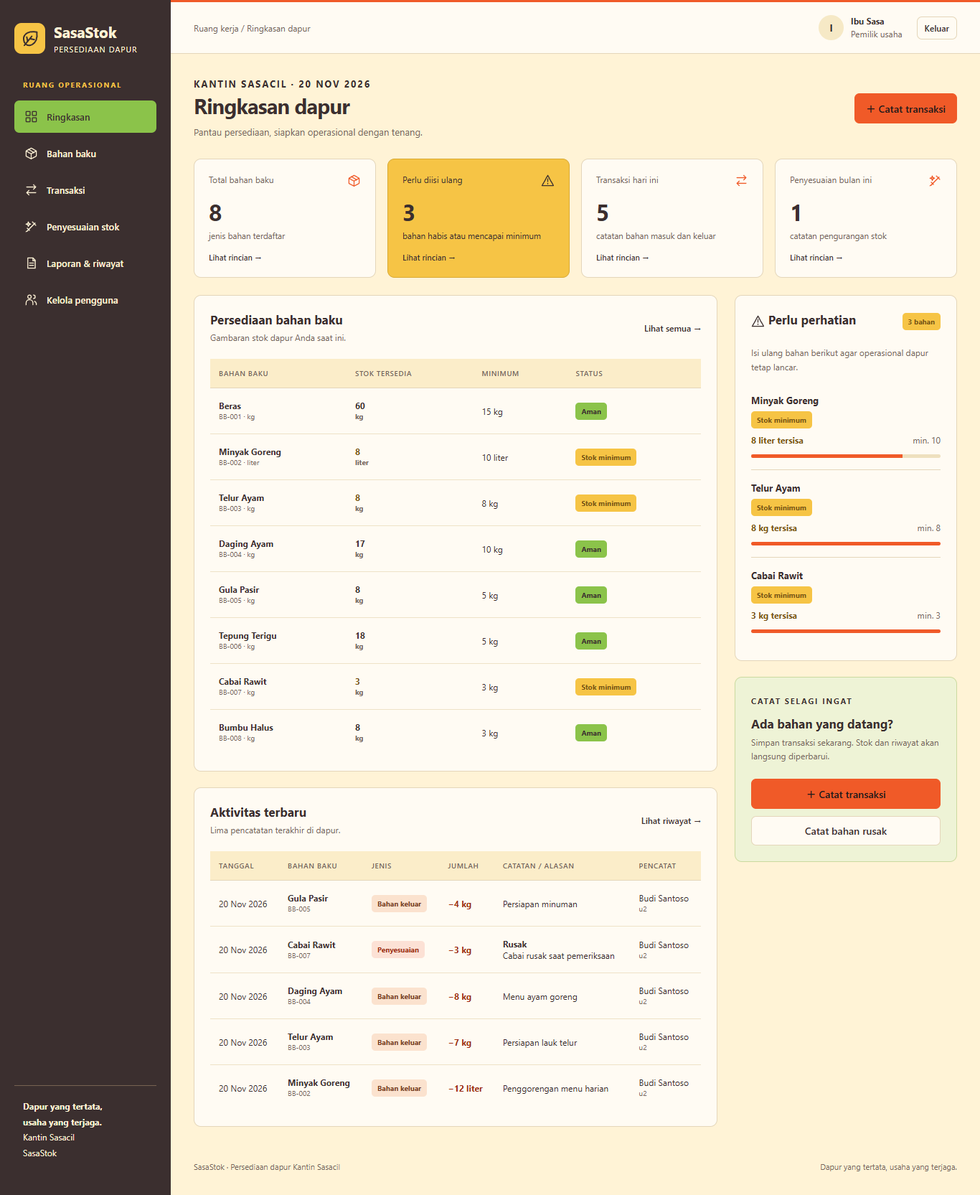
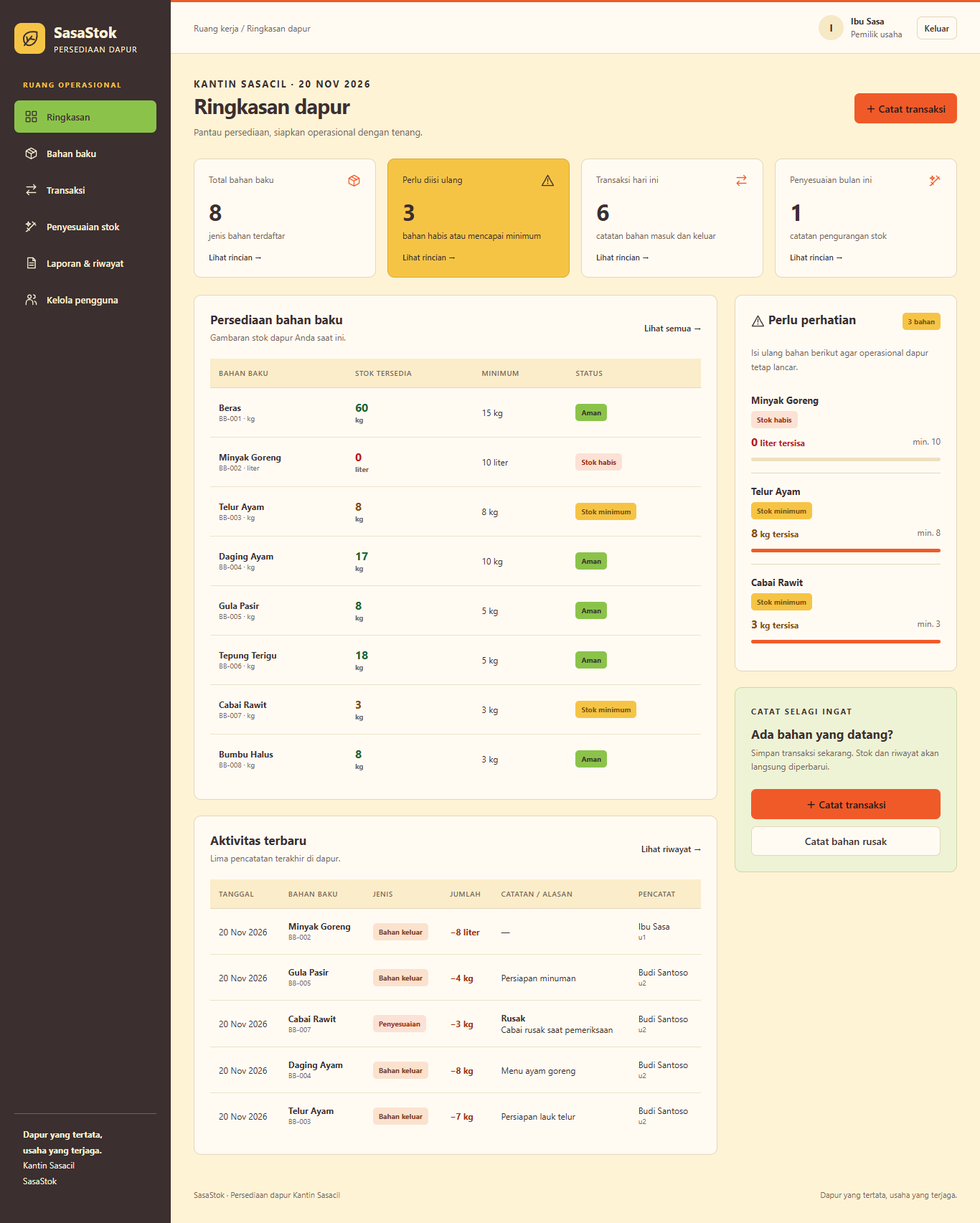
Update UI/UX

diff --git a/style.css b/style.css
@@ -1,4 +1,4 @@
-:root{--yellow:#F6C445;--orange:#F05A28;--lime:#8BC34A;--cream:#FFF3D6;--chocolate:#3B2F2F;--primary:var(--chocolate);--deep:var(--chocolate);--paper:var(--cream);--ink:var(--chocolate);--muted:#75665A;--line:#E4D6BA;--surface:#FFFBF3;--red:#9E2E13;--amber:#795414;--on-orange:#211A1A;font-family: 'Segoe UI',Arial,sans-serif;color:var(--ink);background:var(--paper);font-size:14px;color-scheme:light}*{box-sizing:border-box}body{margin:0}button,input,select,textarea{font:inherit}button,a,input,select,textarea{outline-offset:4px}button{cursor:pointer;border:1px solid var(--line);border-radius:7px;background:var(--surface);color:var(--ink);padding:10px 15px;font-weight:600}button:hover{background:#FCEAC0}button:disabled{opacity:.55;cursor:not-allowed}.primary{background:var(--orange);color:var(--on-orange);border-color:var(--orange)}.primary:hover{background:var(--yellow);color:var(--chocolate);border-color:var(--yellow)}.danger{color:var(--red)}a{color:var(--primary)}h1,h2,h3,p{margin-top:0}h1{font-size:29px;letter-spacing:-.8px;margin-bottom:8px}h2{font-size:17px;margin-bottom:6px}h3{font-size:15px}p{line-height:1.6}.muted,small{color:var(--muted)}small{line-height:1.5}.eyebrow{font-size:11px;letter-spacing:1.8px;font-weight:700;text-transform:uppercase;color:var(--primary)}.brand{display:flex;align-items:center;gap:12px;font-size:21px;font-weight:700}.brand small{display:block;font-size:11px;letter-spacing:1px;font-weight:400;margin-top:3px}.logo{background:var(--yellow);color:var(--deep);border-radius:10px;width:43px;height:43px;display:grid;place-items:center}.logo svg{width:28px;height:28px}svg{width:19px;height:19px;fill:none;stroke:currentColor;stroke-width:1.7;stroke-linecap:round;stroke-linejoin:round;vertical-align:middle}.shell{display:grid;grid-template-columns:238px minmax(0,1fr);min-height:100vh}.sidebar{background:var(--deep);color:var(--cream);padding:30px 20px;display:flex;flex-direction:column;gap:32px}.sidebar small{color:var(--cream)}.sidebar .eyebrow{color:var(--yellow);margin:0 12px 14px;font-size:10px}.sidebar nav{display:grid;gap:6px}.sidebar nav button{display:flex;align-items:center;gap:12px;width:100%;background:transparent;border:0;color:var(--cream);text-align:left;padding:13px 14px;font-size:13px}.sidebar nav button:hover{background:#5B4540}.sidebar nav button.active{background:var(--lime);color:var(--deep)}.side-bottom{margin-top:auto;padding:18px 12px;border-top:1px solid #776252;font-size:12px;line-height:1.8;color:var(--cream)}.main-wrap{min-width:0}.topbar{border-top:3px solid var(--orange);display:flex;justify-content:space-between;align-items:center;border-bottom:1px solid var(--line);padding:18px 32px;background:var(--surface);gap:12px}.topbar small{font-size:12px}.user{display:flex;align-items:center;gap:10px}.avatar{width:35px;height:35px;border-radius:50%;display:grid;place-items:center;background:#F6E9C6;color:var(--primary);font-weight:700}.user strong{display:block;font-size:12px}.user button{font-size:12px;padding:7px 10px;margin-left:10px}main{padding:32px;max-width:1550px;margin:auto}.page-head{display:flex;justify-content:space-between;align-items:center;gap:20px;margin-bottom:26px}.page-head p{margin-bottom:0;font-size:13px}.stats{display:grid;grid-template-columns:repeat(4,minmax(0,1fr));gap:16px;margin-bottom:24px}.stat,.panel{border:1px solid var(--line);border-radius:10px;background:var(--surface)}.stat{padding:20px}.stat-top{display:flex;justify-content:space-between;gap:10px;color:var(--muted);font-size:12px}.stat-top svg{color:var(--orange)}.stat strong{font-size:32px;display:block;margin:12px 0 4px;font-weight:650}.stat.alert{background:var(--yellow);border-color:#D9A934}.stat.alert strong,.stat.alert svg{color:var(--chocolate)}.grid{display:grid;grid-template-columns:minmax(0,1fr) 310px;gap:24px;align-items:start}.panel{padding:22px;min-width:0;margin-bottom:22px}.panel-head{display:flex;justify-content:space-between;align-items:center;gap:12px;margin-bottom:20px}.panel-head p{margin-bottom:0;font-size:12px}.panel-head h2{margin-bottom:5px}.text-button{border:0;padding:4px 0;background:transparent;color:var(--primary);font-size:12px}.table-wrap{overflow-x:auto}table{width:100%;border-collapse:collapse;white-space:nowrap;text-align:left;font-size:12px}th{color:var(--muted);font-size:10px;text-transform:uppercase;letter-spacing:.6px;font-weight:600;padding:13px 12px;border-bottom:1px solid var(--line);background:#FBEDC9}td{padding:16px 12px;border-bottom:1px solid #EEE2C7}tr:last-child td{border-bottom:0}td strong{font-size:12px}td small{display:block;font-size:10px}td.notes{white-space:normal;min-width:150px;max-width:250px}.badge{display:inline-block;border-radius:5px;padding:5px 8px;font-size:10px;font-weight:650;background:var(--lime);color:var(--chocolate)}.badge.warn{background:var(--yellow);color:var(--amber)}.badge.out{background:#FBE2CE;color:#793D21}.badge.adjustment{background:#FCE1D5;color:var(--red)}.badge.off{background:#EDE4D6;color:#67584E}.stock-value{font-weight:700}.stock-value.low{color:var(--amber)}.warn-item{padding:16px 0;border-bottom:1px solid var(--line)}.warn-item:last-child{border:0}.warn-item strong{display:block;font-size:13px;margin-bottom:7px}.warn-item .row{margin-top:8px;font-size:12px}.track{height:5px;background:#EEE0BE;border-radius:8px;margin-top:12px;overflow:hidden}.track span{display:block;height:100%;background:var(--orange)}.row{display:flex;justify-content:space-between;align-items:center;gap:12px}.quick{background:#EEF3D6;border-color:#CADA9F}.quick p{font-size:12px}.quick button{width:100%;margin-top:10px}.notice{padding:14px 16px;border-radius:7px;background:#FAE9C5;color:var(--chocolate);font-size:12px;line-height:1.7;margin-bottom:22px}.error{color:var(--red);font-size:13px;line-height:1.6}.filters{display:flex;flex-wrap:wrap;align-items:end;gap:12px;margin-bottom:22px}.filters label{min-width:150px;flex:1}.filters label.search{flex:2}.filters input,.filters select{margin:0}.form-grid{display:grid;grid-template-columns:1fr 1fr;gap:16px}.span2{grid-column:1/-1}label{display:block;color:var(--ink);font-size:12px;font-weight:600}input,select,textarea{display:block;width:100%;border:1px solid #CBBA9F;border-radius:6px;padding:11px 12px;background:var(--surface);color:var(--ink);margin-top:7px;min-width:0}input:disabled,select:disabled{background:#EFE4D0;color:var(--muted)}textarea{resize:vertical;min-height:85px}label small{display:block;font-weight:400;margin-top:6px}.actions{display:flex;justify-content:flex-end;gap:10px;margin-top:22px}.actions-cell button{border:0;background:transparent;padding:4px 7px;font-size:11px}.empty{text-align:center;color:var(--muted);padding:35px}.footer{font-size:11px;display:flex;justify-content:space-between;gap:16px;margin-top:26px;color:var(--muted)}dialog{border:1px solid var(--line);border-radius:12px;max-width:540px;width:calc(100% - 32px);padding:26px;color:var(--ink);max-height:90vh;overflow:auto}dialog::backdrop{background:#3B2F2F88;backdrop-filter:blur(2px)}dialog .panel-head{margin-bottom:22px}dialog .close{border:0;padding:5px 10px;font-size:20px}#toast{position:fixed;bottom:25px;right:25px;max-width:min(420px,calc(100% - 40px));z-index:10;background:var(--deep);color:var(--cream);padding:14px 20px;border-radius:8px;box-shadow:0 5px 24px #3B2F2F22;display:none}#toast.show{display:block}#toast.error{background:#8E2E16;color:var(--cream)}.login{min-height:100vh;display:grid;grid-template-columns:1fr 1fr}.login-story{border-top:8px solid var(--orange);background:var(--deep);color:var(--cream);padding:50px 12%;display:flex;flex-direction:column;justify-content:space-between;min-height:600px}.login-story h1{font-size:46px;line-height:1.2;max-width:440px}.login-story p{color:var(--cream);max-width:370px}.login-story .eyebrow{color:var(--yellow);margin-bottom:20px}.login-form{display:grid;place-items:center;padding:35px}.login-card{max-width:370px;width:100%}.login-card h2{font-size:27px;margin-top:10px}.login-card form label{margin-top:18px}.login-card form button{width:100%;margin:22px 0 10px}.login-help{border-top:1px solid var(--line);margin-top:24px;padding-top:20px;color:var(--muted);font-size:12px;line-height:1.8}.skip{position:fixed;top:-100px;left:10px;z-index:100;background:var(--surface);padding:12px}.skip:focus{top:10px}.boot{padding:40px}.amount{color:var(--primary);font-weight:700}.amount.negative{color:var(--red)}
+:root{--yellow:#F6C445;--orange:#F05A28;--lime:#8BC34A;--cream:#FFF3D6;--chocolate:#3B2F2F;--primary:var(--chocolate);--deep:var(--chocolate);--paper:var(--cream);--ink:var(--chocolate);--muted:#75665A;--line:#E4D6BA;--surface:#FFFBF3;--red:#9E2E13;--amber:#795414;--on-orange:#211A1A;font-family: 'Segoe UI',Arial,sans-serif;color:var(--ink);background:var(--paper);font-size:14px;color-scheme:light}*{box-sizing:border-box}body{margin:0}button,input,select,textarea{font:inherit}button,a,input,select,textarea{outline-offset:4px}button{cursor:pointer;border:1px solid var(--line);border-radius:7px;background:var(--surface);color:var(--ink);padding:10px 15px;font-weight:600}button:hover{background:#FCEAC0}button:disabled{opacity:.55;cursor:not-allowed}.primary{background:var(--orange);color:var(--on-orange);border-color:var(--orange)}.primary:hover{background:var(--yellow);color:var(--chocolate);border-color:var(--yellow)}.danger{color:var(--red)}a{color:var(--primary)}h1,h2,h3,p{margin-top:0}h1{font-size:29px;letter-spacing:-.8px;margin-bottom:8px}h2{font-size:17px;margin-bottom:6px}h3{font-size:15px}p{line-height:1.6}.muted,small{color:var(--muted)}small{line-height:1.5}.eyebrow{font-size:11px;letter-spacing:1.8px;font-weight:700;text-transform:uppercase;color:var(--primary)}.brand{display:flex;align-items:center;gap:12px;font-size:21px;font-weight:700}.brand small{display:block;font-size:11px;letter-spacing:1px;font-weight:400;margin-top:3px}.logo{background:var(--yellow);color:var(--deep);border-radius:10px;width:43px;height:43px;display:grid;place-items:center}.logo svg{width:28px;height:28px}svg{width:19px;height:19px;fill:none;stroke:currentColor;stroke-width:1.7;stroke-linecap:round;stroke-linejoin:round;vertical-align:middle}.shell{display:grid;grid-template-columns:238px minmax(0,1fr);min-height:100vh}.sidebar{background:var(--deep);color:var(--cream);padding:30px 20px;display:flex;flex-direction:column;gap:32px}.sidebar small{color:var(--cream)}.sidebar .eyebrow{color:var(--yellow);margin:0 12px 14px;font-size:10px}.sidebar nav{display:grid;gap:6px}.sidebar nav button{display:flex;align-items:center;gap:12px;width:100%;background:transparent;border:0;color:var(--cream);text-align:left;padding:13px 14px;font-size:13px}.sidebar nav button:hover{background:#5B4540}.sidebar nav button.active{background:var(--lime);color:var(--deep)}.side-bottom{margin-top:auto;padding:18px 12px;border-top:1px solid #776252;font-size:12px;line-height:1.8;color:var(--cream)}.main-wrap{min-width:0}.topbar{border-top:3px solid var(--orange);display:flex;justify-content:space-between;align-items:center;border-bottom:1px solid var(--line);padding:18px 32px;background:var(--surface);gap:12px}.topbar small{font-size:12px}.user{display:flex;align-items:center;gap:10px}.avatar{width:35px;height:35px;border-radius:50%;display:grid;place-items:center;background:#F6E9C6;color:var(--primary);font-weight:700}.user strong{display:block;font-size:12px}.user button{font-size:12px;padding:7px 10px;margin-left:10px}main{padding:32px;max-width:1550px;margin:auto}.page-head{display:flex;justify-content:space-between;align-items:center;gap:20px;margin-bottom:26px}.page-head p{margin-bottom:0;font-size:13px}.stats{display:grid;grid-template-columns:repeat(4,minmax(0,1fr));gap:16px;margin-bottom:24px}.stat,.panel{border:1px solid var(--line);border-radius:10px;background:var(--surface)}.stat{padding:20px}.stat-top{display:flex;justify-content:space-between;gap:10px;color:var(--muted);font-size:12px}.stat-top svg{color:var(--orange)}.stat strong{font-size:32px;display:block;margin:12px 0 4px;font-weight:650}.stat.alert{background:var(--yellow);border-color:#D9A934}.stat.alert strong,.stat.alert svg{color:var(--chocolate)}.grid{display:grid;grid-template-columns:minmax(0,1fr) 310px;gap:24px;align-items:start}.panel{padding:22px;min-width:0;margin-bottom:22px}.panel-head{display:flex;justify-content:space-between;align-items:center;gap:12px;margin-bottom:20px}.panel-head p{margin-bottom:0;font-size:12px}.panel-head h2{margin-bottom:5px}.text-button{border:0;padding:4px 0;background:transparent;color:var(--primary);font-size:12px}.table-wrap{overflow-x:auto}table{width:100%;border-collapse:collapse;white-space:nowrap;text-align:left;font-size:12px}th{color:var(--muted);font-size:10px;text-transform:uppercase;letter-spacing:.6px;font-weight:600;padding:13px 12px;border-bottom:1px solid var(--line);background:#FBEDC9}td{padding:16px 12px;border-bottom:1px solid #EEE2C7}tr:last-child td{border-bottom:0}td strong{font-size:12px}td small{display:block;font-size:10px}td.notes{white-space:normal;min-width:150px;max-width:250px}.badge{display:inline-block;border-radius:5px;padding:5px 8px;font-size:10px;font-weight:650;background:var(--lime);color:var(--chocolate)}.badge.warn{background:var(--yellow);color:var(--amber)}.badge.out{background:#FBE2CE;color:#793D21}.badge.adjustment{background:#FCE1D5;color:var(--red)}.badge.off{background:#EDE4D6;color:#67584E}.stock-value{font-weight:700;font-variant-numeric:tabular-nums}.stock-value.stock-safe{color:#166534}.stock-value.stock-low{color:#854D0E}.stock-value.stock-empty{color:#B91C1C}.stock-number{font-size:16px;font-weight:750}.warn-item{padding:16px 0;border-bottom:1px solid var(--line)}.warn-item:last-child{border:0}.warn-item strong{display:block;font-size:13px;margin-bottom:7px}.warn-item .row{margin-top:8px;font-size:12px}.track{height:5px;background:#EEE0BE;border-radius:8px;margin-top:12px;overflow:hidden}.track span{display:block;height:100%;background:var(--orange)}.row{display:flex;justify-content:space-between;align-items:center;gap:12px}.quick{background:#EEF3D6;border-color:#CADA9F}.quick p{font-size:12px}.quick button{width:100%;margin-top:10px}.notice{padding:14px 16px;border-radius:7px;background:#FAE9C5;color:var(--chocolate);font-size:12px;line-height:1.7;margin-bottom:22px}.error{color:var(--red);font-size:13px;line-height:1.6}.filters{display:flex;flex-wrap:wrap;align-items:end;gap:12px;margin-bottom:22px}.filters label{min-width:150px;flex:1}.filters label.search{flex:2}.filters input,.filters select{margin:0}.form-grid{display:grid;grid-template-columns:1fr 1fr;gap:16px}.span2{grid-column:1/-1}label{display:block;color:var(--ink);font-size:12px;font-weight:600}input,select,textarea{display:block;width:100%;border:1px solid #CBBA9F;border-radius:6px;padding:11px 12px;background:var(--surface);color:var(--ink);margin-top:7px;min-width:0}input:disabled,select:disabled{background:#EFE4D0;color:var(--muted)}textarea{resize:vertical;min-height:85px}label small{display:block;font-weight:400;margin-top:6px}.actions{display:flex;justify-content:flex-end;gap:10px;margin-top:22px}.actions-cell button{border:0;background:transparent;padding:4px 7px;font-size:11px}.empty{text-align:center;color:var(--muted);padding:35px}.footer{font-size:11px;display:flex;justify-content:space-between;gap:16px;margin-top:26px;color:var(--muted)}dialog{border:1px solid var(--line);border-radius:12px;max-width:540px;width:calc(100% - 32px);padding:26px;color:var(--ink);max-height:90vh;overflow:auto}dialog::backdrop{background:#3B2F2F88;backdrop-filter:blur(2px)}dialog .panel-head{margin-bottom:22px}dialog .close{border:0;padding:5px 10px;font-size:20px}#toast{position:fixed;bottom:25px;right:25px;max-width:min(420px,calc(100% - 40px));z-index:10;background:var(--deep);color:var(--cream);padding:14px 20px;border-radius:8px;box-shadow:0 5px 24px #3B2F2F22;display:none}#toast.show{display:block}#toast.error{background:#8E2E16;color:var(--cream)}.login{min-height:100vh;display:grid;grid-template-columns:1fr 1fr}.login-story{border-top:8px solid var(--orange);background:var(--deep);color:var(--cream);padding:50px 12%;display:flex;flex-direction:column;justify-content:space-between;min-height:600px}.login-story h1{font-size:46px;line-height:1.2;max-width:440px}.login-story p{color:var(--cream);max-width:370px}.login-story .eyebrow{color:var(--yellow);margin-bottom:20px}.login-form{display:grid;place-items:center;padding:35px}.login-card{max-width:370px;width:100%}.login-card h2{font-size:27px;margin-top:10px}.login-card form label{margin-top:18px}.login-card form button{width:100%;margin:22px 0 10px}.login-help{border-top:1px solid var(--line);margin-top:24px;padding-top:20px;color:var(--muted);font-size:12px;line-height:1.8}.skip{position:fixed;top:-100px;left:10px;z-index:100;background:var(--surface);padding:12px}.skip:focus{top:10px}.boot{padding:40px}.amount{color:var(--primary);font-weight:700}.amount.negative{color:var(--red)}
 @media(min-width:1500px){main{padding:40px}.grid{grid-template-columns:minmax(0,1fr) 330px}}
 @media(max-width:1150px){.shell{grid-template-columns:210px minmax(0,1fr)}.sidebar{padding:25px 13px}.grid{grid-template-columns:minmax(0,1fr)}.aside{display:grid;grid-template-columns:1fr 1fr;gap:20px}.stats{gap:10px}.stat{padding:16px}.topbar,main{padding:24px}.stat-top{font-size:11px}}
 @media(max-width:760px){.shell{display:block}.sidebar{padding:18px 16px;gap:20px}.sidebar nav{display:flex;overflow-x:auto;gap:5px}.sidebar nav button{width:auto;white-space:nowrap;padding:11px;font-size:12px}.sidebar nav button svg{display:none}.sidebar .eyebrow,.side-bottom{display:none}.sidebar .brand{font-size:18px}.topbar{padding:14px 18px}.topbar>small{display:none}.user{width:100%}.user button{margin-left:auto}main{padding:24px 16px}.page-head{align-items:flex-start;flex-direction:column;gap:14px}h1{font-size:26px}.stats{grid-template-columns:repeat(2,minmax(0,1fr));gap:10px}.stat strong{font-size:28px}.stat small{font-size:10px}.aside{display:block}.panel{padding:17px}.footer{flex-direction:column}.login{display:block}.login-story{min-height:0;padding:25px}.login-story>div:not(.brand),.login-story>small{display:none}.login-form{padding:32px 24px}.form-grid{grid-template-columns:1fr}.span2{grid-column:auto}.filters{align-items:stretch}.filters label{min-width:120px}input,select,textarea{font-size:16px}.panel-head{align-items:flex-start}.panel-head button{white-space:nowrap}.notice{font-size:11px}}

diff --git a/app.js b/app.js
@@ -29,13 +29,13 @@
     app.innerHTML=`<div class="login"><section class="login-story">${brand()}<div><p class="eyebrow">Persediaan dapur Kantin Sasacil</p><h1>Dapur yang tertata,<br>Usaha yang terjaga.</h1><p>Kelola bahan baku, pantau persediaan, dan catat kebutuhan dapur dalam satu tempat.</p></div><small>SasaStok · Manajemen bahan baku</small></section><main id="main" class="login-form"><div class="login-card"><span class="eyebrow">Selamat datang kembali</span><h2>Masuk ke SasaStok</h2><p class="muted">Gunakan akun Anda untuk mengakses persediaan dapur.</p><form id="login-form"><label>Email<input name="email" type="email" autocomplete="username" placeholder="nama@sasacil.id" required></label><label>Kata sandi<input name="password" type="password" autocomplete="current-password" required></label><p id="login-error" class="error" role="alert"></p><button class="primary" type="submit">Masuk ke aplikasi →</button></form><p class="login-help">Belum memiliki akun atau mengalami kendala masuk? Hubungi pemilik atau pengelola Kantin Sasacil.</p></div></main></div>`;
   }
   function table(headers,rows,empty='Belum ada data untuk ditampilkan.') {return `<div class="table-wrap"><table><thead><tr>${headers.map(x=>`<th scope="col">${x}</th>`).join('')}</tr></thead><tbody>${rows.join('')||`<tr><td colspan="${headers.length}" class="empty">${empty}</td></tr>`}</tbody></table></div>`;}
-  function stockTable(rows,edit=false){return table(['Bahan baku','Stok tersedia','Minimum','Status',...(edit?['Tindakan']:[])],rows.map(m=>`<tr><td><strong>${esc(m.name)}</strong><small>${esc(m.code)} · ${esc(m.unit)}</small></td><td class="stock-value ${M.balance(state,m.id)<=m.minimum?'low':''}">${num(M.balance(state,m.id))} <small>${esc(m.unit)}</small></td><td>${num(m.minimum)} ${esc(m.unit)}</td><td>${badge(m)}</td>${edit?`<td class="actions-cell"><button data-action="edit-material" data-id="${m.id}" aria-label="Ubah ${esc(m.name)}">Ubah</button><button class="danger" data-action="delete-material" data-id="${m.id}" aria-label="Hapus ${esc(m.name)}">Hapus</button></td>`:''}</tr>`));}
+  function stockTable(rows,edit=false){return table(['Bahan baku','Stok tersedia','Minimum','Status',...(edit?['Tindakan']:[])],rows.map(m=>`<tr><td><strong>${esc(m.name)}</strong><small>${esc(m.code)} · ${esc(m.unit)}</small></td><td class="stock-value stock-${stockStatus(m)}"><span class="stock-number">${num(M.balance(state,m.id))}</span> <small>${esc(m.unit)}</small></td><td>${num(m.minimum)} ${esc(m.unit)}</td><td>${badge(m)}</td>${edit?`<td class="actions-cell"><button data-action="edit-material" data-id="${m.id}" aria-label="Ubah ${esc(m.name)}">Ubah</button><button class="danger" data-action="delete-material" data-id="${m.id}" aria-label="Hapus ${esc(m.name)}">Hapus</button></td>`:''}</tr>`));}
   const typeName=t=>({masuk:'Bahan masuk',keluar:'Bahan keluar',adjustment:'Penyesuaian',movement:'Bahan masuk dan keluar'}[t]);
   function txTable(rows){return table(['Tanggal','Bahan baku','Jenis','Jumlah','Catatan / alasan','Pencatat'],rows.map(t=>{const m=state.materials.find(m=>m.id===t.materialId);return `<tr><td>${date(t.date)}</td><td><strong>${esc(m?.name)}</strong><small>${esc(m?.code)}</small></td><td><span class="badge ${t.type==='keluar'?'out':t.type==='adjustment'?'adjustment':''}">${typeName(t.type)}</span></td><td class="amount ${t.type!=='masuk'?'negative':''}">${t.type==='masuk'?'+':'−'}${num(t.quantity)} ${esc(m?.unit)}</td><td class="notes">${t.reason?`<b>${esc(t.reason)}</b><br>`:''}${esc(t.notes||'—')}</td><td>${esc(t.userName)}<small>${esc(t.userId)}</small></td></tr>`;}));}
   function dashboard(){
     const low=state.materials.filter(m=>M.balance(state,m.id)<=m.minimum),today=M.filter(state,{start:M.today(),end:M.today()}),adjust=state.transactions.filter(t=>t.type==='adjustment'&&t.date.slice(0,7)===M.today().slice(0,7));
     const stats=[['Total bahan baku',state.materials.length,'jenis bahan terdaftar','materials','materials',''],['Perlu diisi ulang',low.length,'bahan habis atau mencapai minimum','warn','materials','restock'],['Transaksi hari ini',today.filter(t=>t.type!=='adjustment').length,'catatan bahan masuk dan keluar','transactions','reports','today'],['Penyesuaian bulan ini',adjust.length,'catatan pengurangan stok','adjustment','reports','month-adjustments']];
-    return `<div class="stats">${stats.map(([label,value,sub,i,target,view],n)=>`<button type="button" class="stat ${n===1?'alert':''}" data-page="${target}" data-view="${view}"><span class="stat-top">${label}${icon(i)}</span><strong>${value}</strong><small>${sub}</small><span class="stat-link">Lihat rincian →</span></button>`).join('')}</div><div class="grid"><div><section class="panel"><div class="panel-head"><div><h2>Persediaan bahan baku</h2><p class="muted">Gambaran stok dapur Anda saat ini.</p></div><button class="text-button" data-page="materials">Lihat semua →</button></div>${stockTable(state.materials)}</section><section class="panel"><div class="panel-head"><div><h2>Aktivitas terbaru</h2><p class="muted">Lima pencatatan terakhir di dapur.</p></div><button class="text-button" data-page="reports">Lihat riwayat →</button></div>${txTable(M.filter(state).slice(0,5))}</section></div><div class="aside"><section class="panel"><div class="panel-head"><h2>${icon('warn')} Perlu perhatian</h2><span class="badge warn">${low.length} bahan</span></div><p class="muted" style="font-size:12px">Isi ulang bahan berikut agar operasional dapur tetap lancar.</p>${low.map(m=>`<div class="warn-item"><strong>${esc(m.name)}</strong>${badge(m)}<div class="row"><span class="stock-value low">${num(M.balance(state,m.id))} ${esc(m.unit)} tersisa</span><span class="muted">min. ${num(m.minimum)}</span></div><div class="track"><span style="width:${m.minimum?Math.min(100,M.balance(state,m.id)/m.minimum*100):0}%"></span></div></div>`).join('')||'<p class="empty">Semua stok aman.</p>'}</section><section class="panel quick"><span class="eyebrow">Catat selagi ingat</span><h2 style="margin-top:12px">Ada bahan yang datang?</h2><p class="muted">Simpan transaksi sekarang. Stok dan riwayat akan langsung diperbarui.</p><button class="primary" data-page="transactions">＋ Catat transaksi</button><button data-page="adjustment">Catat bahan rusak</button></section></div></div>`;
+    return `<div class="stats">${stats.map(([label,value,sub,i,target,view],n)=>`<button type="button" class="stat ${n===1?'alert':''}" data-page="${target}" data-view="${view}"><span class="stat-top">${label}${icon(i)}</span><strong>${value}</strong><small>${sub}</small><span class="stat-link">Lihat rincian →</span></button>`).join('')}</div><div class="grid"><div><section class="panel"><div class="panel-head"><div><h2>Persediaan bahan baku</h2><p class="muted">Gambaran stok dapur Anda saat ini.</p></div><button class="text-button" data-page="materials">Lihat semua →</button></div>${stockTable(state.materials)}</section><section class="panel"><div class="panel-head"><div><h2>Aktivitas terbaru</h2><p class="muted">Lima pencatatan terakhir di dapur.</p></div><button class="text-button" data-page="reports">Lihat riwayat →</button></div>${txTable(M.filter(state).slice(0,5))}</section></div><div class="aside"><section class="panel"><div class="panel-head"><h2>${icon('warn')} Perlu perhatian</h2><span class="badge warn">${low.length} bahan</span></div><p class="muted" style="font-size:12px">Isi ulang bahan berikut agar operasional dapur tetap lancar.</p>${low.map(m=>`<div class="warn-item"><strong>${esc(m.name)}</strong>${badge(m)}<div class="row"><span class="stock-value stock-${stockStatus(m)}"><span class="stock-number">${num(M.balance(state,m.id))}</span> ${esc(m.unit)} tersisa</span><span class="muted">min. ${num(m.minimum)}</span></div><div class="track"><span style="width:${m.minimum?Math.min(100,M.balance(state,m.id)/m.minimum*100):0}%"></span></div></div>`).join('')||'<p class="empty">Semua stok aman.</p>'}</section><section class="panel quick"><span class="eyebrow">Catat selagi ingat</span><h2 style="margin-top:12px">Ada bahan yang datang?</h2><p class="muted">Simpan transaksi sekarang. Stok dan riwayat akan langsung diperbarui.</p><button class="primary" data-page="transactions">＋ Catat transaksi</button><button data-page="adjustment">Catat bahan rusak</button></section></div></div>`;
   }
   function materials(){const q=filters.q||'',status=filters.status||'';const rows=state.materials.filter(m=>(m.name+' '+m.code).toLowerCase().includes(q.toLowerCase())&&(!status||(status==='attention'?M.balance(state,m.id)<=m.minimum:stockStatus(m)===status)));return `<section class="panel"><form id="material-filter" class="filters"><label class="search">Cari bahan<input name="q" type="search" placeholder="Nama atau kode bahan…" value="${esc(q)}"></label><label>Status stok<select name="status"><option value="">Semua status</option><option value="attention" ${status==='attention'?'selected':''}>Perlu diisi ulang</option><option value="empty" ${status==='empty'?'selected':''}>Stok habis</option><option value="low" ${status==='low'?'selected':''}>Stok minimum</option><option value="safe" ${status==='safe'?'selected':''}>Aman</option></select></label><button type="submit">Terapkan</button></form>${stockTable(rows,owner())}</section>`;}
   function materialOptions(selected=''){return '<option value="">Pilih bahan baku</option>'+state.materials.map(m=>`<option value="${m.id}" ${selected===m.id?'selected':''}>${esc(m.code+' · '+m.name)} — ${num(M.balance(state,m.id))} ${esc(m.unit)}</option>`).join('');}
@@ -51,7 +51,7 @@
     app.innerHTML=`<div class="shell"><aside class="sidebar">${brand()}<div><p class="eyebrow">Ruang operasional</p><nav aria-label="Menu utama">${nav.filter(([k])=>k!=='users'||owner()).map(([k,label])=>`<button data-page="${k}" class="${k===page?'active':''}" ${k===page?'aria-current="page"':''}>${icon(k)}${label}</button>`).join('')}</nav></div><div class="side-bottom"><b>Dapur yang tertata,<br>usaha yang terjaga.</b><br>Kantin Sasacil<br>SasaStok</div></aside><div class="main-wrap"><header class="topbar"><small>Ruang kerja <span class="muted">/ ${title}</span></small><div class="user"><span class="avatar">${esc(user().name[0])}</span><div><strong>${esc(user().name)}</strong><small>${role(user().role)}</small></div><button data-action="logout">Keluar</button></div></header><main id="main" tabindex="-1"><div class="page-head"><div><p class="eyebrow">KANTIN SASACIL · ${date(M.today())}</p><h1>${title}</h1><p class="muted">${sub}</p></div>${page==='dashboard'?'<button class="primary" data-page="transactions">＋ Catat transaksi</button>':page==='materials'&&owner()?'<button class="primary" data-action="add-material">＋ Tambah bahan</button>':page==='users'?'<button class="primary" data-action="add-user">＋ Tambah pengguna</button>':''}</div>${({dashboard,materials,transactions:()=>txForm(),adjustment:()=>txForm(true),reports:report,users}[page])()}<footer class="footer"><span>SasaStok · Persediaan dapur Kantin Sasacil</span><span>Dapur yang tertata, usaha yang terjaga.</span></footer></main></div></div>`;
   }
   function modal(title,body){dialog.innerHTML=`<div class="panel-head"><h2 id="dialog-title">${title}</h2><button class="close" data-action="close" aria-label="Tutup dialog">×</button></div>${body}`;dialog.showModal();}
-  function materialModal(mid){M.actor(state,uid,true);const m=state.materials.find(m=>m.id===mid),locked=m&&state.transactions.some(t=>t.materialId===mid);modal(m?'Ubah bahan baku':'Tambah bahan baku',`<form id="material-form" class="form-grid"><input type="hidden" name="id" value="${m?.id||''}"><label>Kode bahan<input name="code" readonly maxlength="50" value="${esc(m?.code||M.nextMaterialCode(state))}"><small>${m?'Kode bahan tetap untuk menjaga identitas bahan.':'Dibuat otomatis saat bahan disimpan.'}</small></label><label>Satuan dasar<select name="unit" ${locked?'disabled':''}>${['kg','liter','pcs','gram'].map(u=>`<option ${u===m?.unit?'selected':''}>${u}</option>`).join('')}</select></label><label class="span2">Nama bahan<input name="name" required maxlength="255" value="${esc(m?.name||'')}"></label><label>Persediaan awal<input name="initial" type="number" min="0" step="0.01" required value="${m?decimal(m.initial):'0'}" ${locked?'disabled':''}></label><label>Batas stok minimum<input name="minimum" type="number" min="0" step="0.01" required value="${m?decimal(m.minimum):'0'}"></label>${locked?'<small class="span2">Persediaan awal dan satuan dikunci untuk menjaga konsistensi riwayat.</small>':''}<p class="error span2" role="alert"></p><div class="actions span2"><button type="button" data-action="close">Batal</button><button class="primary">Simpan bahan</button></div></form>`);dialog.querySelector('[name=name]').focus();}
+  function materialModal(mid){M.actor(state,uid,true);const m=state.materials.find(m=>m.id===mid),locked=m&&state.transactions.some(t=>t.materialId===mid);modal(m?'Ubah bahan baku':'Tambah bahan baku',`<form id="material-form" class="form-grid"><input type="hidden" name="id" value="${m?.id||''}"><label class="span2">Nama bahan<input name="name" required maxlength="255" value="${esc(m?.name||'')}"></label><label class="span2">Satuan dasar<select name="unit" ${locked?'disabled':''}>${['kg','liter','pcs','gram'].map(u=>`<option ${u===m?.unit?'selected':''}>${u}</option>`).join('')}</select></label><label>Persediaan awal<input name="initial" type="number" min="0" step="0.01" required value="${m?decimal(m.initial):'0'}" ${locked?'disabled':''}></label><label>Batas stok minimum<input name="minimum" type="number" min="0" step="0.01" required value="${m?decimal(m.minimum):'0'}"></label>${locked?'<small class="span2">Persediaan awal dan satuan dikunci untuk menjaga konsistensi riwayat.</small>':''}<p class="error span2" role="alert"></p><div class="actions span2"><button type="button" data-action="close">Batal</button><button class="primary">Simpan bahan</button></div></form>`);dialog.querySelector('[name=name]').focus();}
   function userModal(target){M.actor(state,uid,true);const u=state.users.find(u=>u.id===target);modal(u?'Ubah pengguna':'Tambah pengguna',`<form id="user-form" class="form-grid"><input name="id" type="hidden" value="${u?.id||''}"><label class="span2">Nama lengkap<input name="name" required maxlength="255" value="${esc(u?.name||'')}"></label><label class="span2">Email<input type="email" name="email" required value="${esc(u?.email||'')}"></label><label>Peran<select name="role"><option value="karyawan">Karyawan</option><option value="pemilik" ${u?.role==='pemilik'?'selected':''}>Pemilik usaha</option></select></label><label>Status<select name="active"><option value="true">Aktif</option><option value="false" ${u?.active===false?'selected':''}>Nonaktif</option></select></label><label class="span2">${u?'Kata sandi baru (opsional)':'Kata sandi'}<input name="password" type="password" minlength="6" ${u?'':'required'} autocomplete="new-password"><small>Minimal 6 karakter. ${u?'Kosongkan untuk mempertahankan kata sandi.':''}</small></label><p class="error span2" role="alert"></p><div class="actions span2"><button type="button" data-action="close">Batal</button><button class="primary">Simpan pengguna</button></div></form>`);}
   function download(name,rows){M.actor(state,uid,true);const url=URL.createObjectURL(new Blob([M.csv(rows)],{type:'text/csv;charset=utf-8;'}));const a=document.createElement('a');a.href=url;a.download=name;document.body.append(a);a.click();a.remove();setTimeout(()=>URL.revokeObjectURL(url),1000);toast('Laporan CSV berhasil diekspor.');}
   function confirmAction(title,message,action){modal(title,`<p>${esc(message)}</p><p class="error" role="alert"></p><div class="actions"><button data-action="close">Batal</button><button class="primary" id="confirm-action">Konfirmasi</button></div>`);document.querySelector('#confirm-action').onclick=async()=>{const btn=document.querySelector('#confirm-action');btn.disabled=true;try{await action();dialog.close();render();toast('Perubahan berhasil disimpan.');}catch(e){dialog.querySelector('.error').textContent=e.message;btn.disabled=false;}};}

diff --git a/README.md b/README.md
@@ -80,14 +80,15 @@ Kredensial awal tidak ditampilkan pada halaman login. Hubungi pengelola jika aku
 - **Transaksi hari ini:** jumlah catatan masuk dan keluar hari ini. Tekan kartu untuk membuka riwayat hari ini dengan jenis **Bahan masuk dan keluar**, tanpa penyesuaian.
 - **Penyesuaian bulan ini:** jumlah catatan penyesuaian bulan berjalan. Tekan kartu untuk membuka riwayat penyesuaian dari awal bulan sampai hari ini.
 - Tabel persediaan menampilkan persediaan, minimum, dan status **Stok habis** jika persediaan 0, **Stok minimum** jika persediaan di atas 0 sampai batas minimum, atau **Aman** jika persediaan melebihi minimum. Filter status membedakan ketiga kondisi tersebut. Bahan habis tetap dihitung dalam bagian Perlu diisi ulang dan Perlu perhatian.
-- Panel **Perlu perhatian** menampilkan bahan yang perlu diperiksa atau diisi ulang.
+- Angka **Stok tersedia** ditampilkan lebih tebal dan berwarna hijau tua untuk stok aman, cokelat oranye tua untuk stok minimum, serta merah tua untuk stok habis. Label status tetap ditampilkan agar kondisi tidak dibedakan hanya melalui warna.
+- Panel **Perlu perhatian** menampilkan bahan yang perlu diperiksa atau diisi ulang, dengan warna angka yang sama seperti tabel persediaan.
 - **Aktivitas terbaru** menampilkan lima pencatatan terbaru. Tombol **Catat transaksi**, **Catat bahan rusak**, **Lihat semua**, dan **Lihat riwayat** membuka menu terkait.
 
 ### 2. Bahan baku
 
 **Mencari dan menyaring:** isi nama atau kode pada **Cari bahan**, pilih **Status stok**, lalu tekan **Terapkan**. Untuk menampilkan semua, kosongkan pencarian, pilih **Semua status**, dan terapkan kembali.
 
-**Menambah — pemilik:** tekan **Tambah bahan**, isi nama, satuan (`kg`, `liter`, `pcs`, atau `gram`), persediaan awal, dan batas minimum. Kode bahan terisi otomatis (`BB-009`, `BB-010`, dan seterusnya) dan tidak perlu diketik. Nomor ditetapkan saat penyimpanan berhasil, melanjutkan kode BB terbesar yang ada. Nomor yang telah dipakai tidak digunakan kembali saat bahan dihapus. Kode lama tetap dipertahankan. Fokus langsung berada pada nama bahan. Tekan **Simpan bahan**. Gunakan **Batal** atau tombol tutup untuk membatalkan.
+**Menambah — pemilik:** tekan **Tambah bahan**, isi nama, satuan (`kg`, `liter`, `pcs`, atau `gram`), persediaan awal, dan batas minimum. Kolom kode tidak ditampilkan pada formulir. Kode bahan dibuat otomatis (`BB-009`, `BB-010`, dan seterusnya) saat disimpan dan ditampilkan pada daftar bahan. Urutan isian adalah **Nama bahan → Satuan dasar → Persediaan awal → Batas stok minimum**. Nomor ditetapkan saat penyimpanan berhasil, melanjutkan kode BB terbesar yang ada. Nomor yang telah dipakai tidak digunakan kembali saat bahan dihapus. Kode lama tetap dipertahankan. Fokus langsung berada pada nama bahan. Tekan **Simpan bahan**. Gunakan **Batal** atau tombol tutup untuk membatalkan.
 
 **Mengubah — pemilik:** tekan **Ubah** pada baris bahan, sesuaikan isian, dan simpan. Setelah bahan memiliki transaksi, persediaan awal dan satuannya dikunci. Nama dan minimum tetap dapat diperbarui; kode bahan tetap. Perubahan stok operasional dilakukan melalui transaksi.
 
